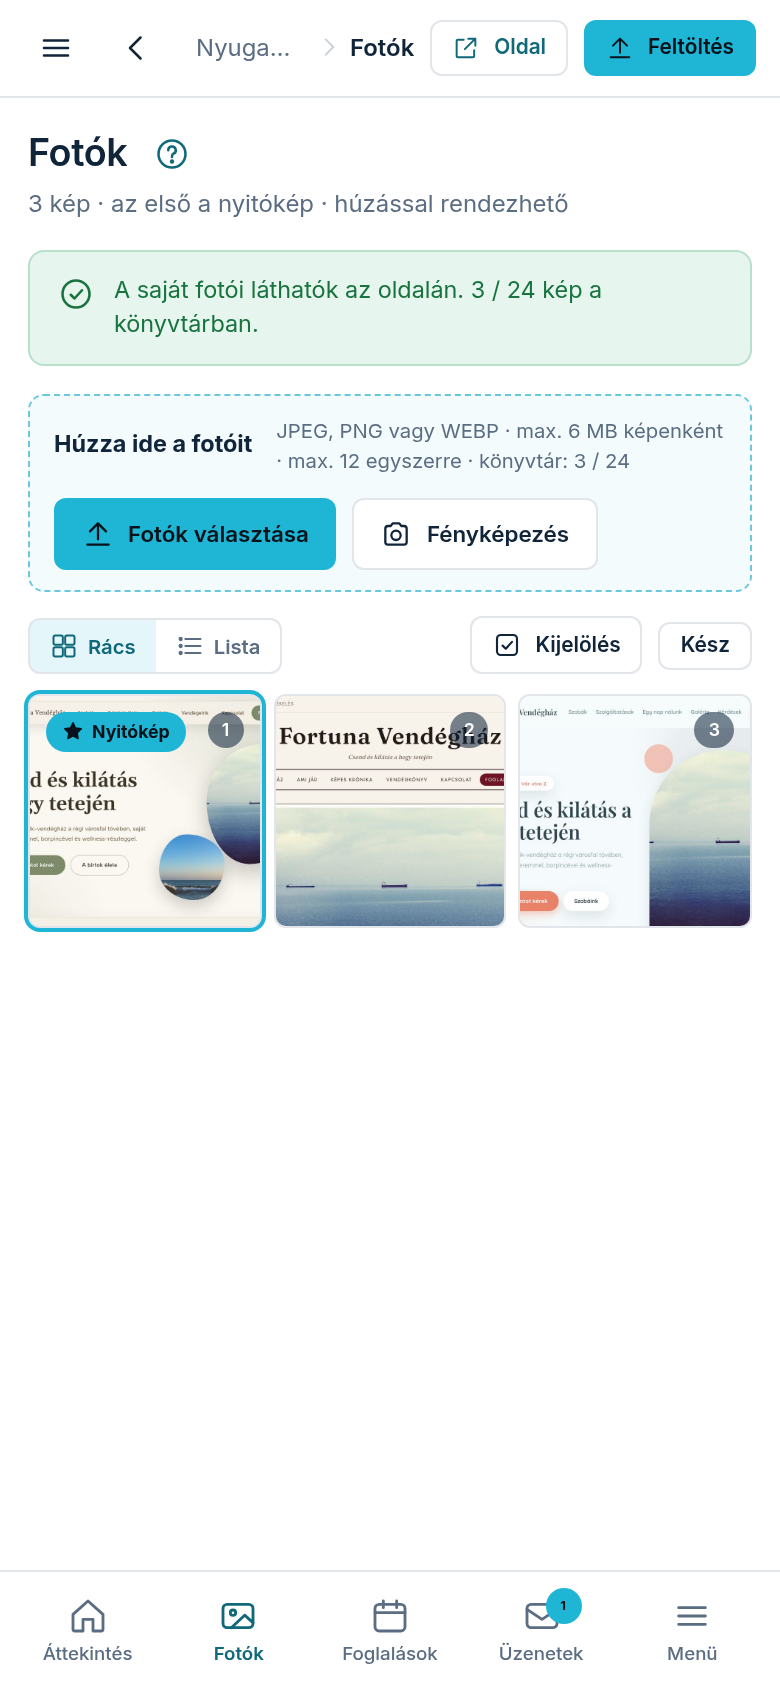
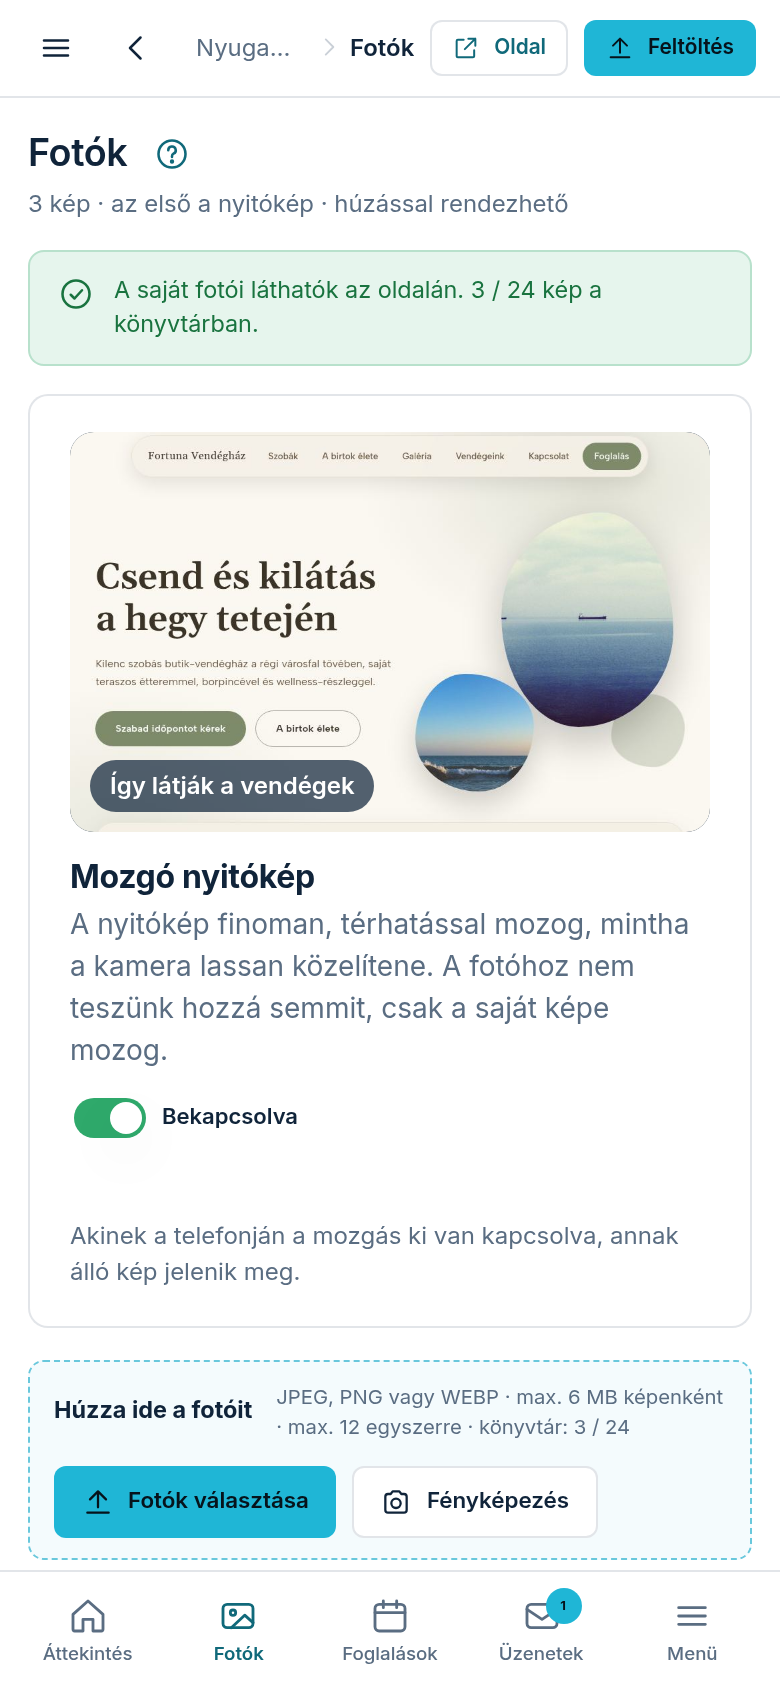
docs(kb): Mozgó nyitókép — a három hiányzó állapot, a feltöltő sáv helye, súgókép a kártyával (tudásbázis-őr FLAG, ADR-0472)
Claude-Session: https://claude.ai/code/session_01H78ew9HBdFXC3rMU2UuRDA
(cherry picked from commit f9ce56257359b1b19e08937adc43bd153cd26b8a)

diff --git a/kb/entries/admin-photos/entry.hu.md b/kb/entries/admin-photos/entry.hu.md
@@ -19,8 +19,8 @@ nyitókép, a sorrend húzással rendezhető.
 
 ## Saját fotók feltöltése
 
-1. Nyissa meg a **„Fotók”** lapot. A cím alatt egy szaggatott keretű sáv áll: **„Húzza ide a
-   fotóit”**. Ugyanez a sáv sorolja fel a szabályokat is: JPEG, PNG vagy WEBP, legfeljebb 6 MB
+1. Nyissa meg a **„Fotók”** lapot. A képek fölött egy szaggatott keretű sáv áll: **„Húzza ide a
+   fotóit”** (ha az oldala tud mozgó nyitóképet, fölötte még a **„Mozgó nyitókép”** kártya is). Ugyanez a sáv sorolja fel a szabályokat is: JPEG, PNG vagy WEBP, legfeljebb 6 MB
    képenként, legfeljebb 12 kép egyszerre, és összesen 24 kép fér a könyvtárba.
 2. Koppintson a **„Fotók választása”** gombra — a telefonja felajánlja a galériáját, és egyszerre
    több képet is kijelölhet. Telefonon a **„Fényképezés”** gombbal azonnal fotózhat is. Gépen a
@@ -68,7 +68,10 @@ semmit, csak a saját képe mozog.
    **„Kikapcsolva”**.
 2. A beállítás azonnal mentődik, külön gomb nincs. Alatta ezt látja: **„Mentve. Az oldalán a
    nyitókép most már mozog.”**, kikapcsoláskor pedig: **„Mentve. Az oldalán a nyitókép most álló
-   kép.”**
+   kép.”** Ha bekapcsoláskor a nyitókép mozgása még készül, ezt: **„Mentve. Amint elkészül, a
+   nyitókép mozogni kezd.”**
+3. Ha a mentés nem sikerül (például megszakadt az internet), ezt látja: **„Nem sikerült menteni.
+   Próbálja újra.”** — ilyenkor koppintson újra a kapcsolóra.
 
 Ha **új nyitóképet** választ, vagy saját fotót tölt fel, az új kép mozgását el kell készítenünk.
 Ez általában egy percen belül megvan; addig ezt látja: **„Új nyitókép: a térhatása készül,
@@ -76,7 +79,9 @@ Ez általában egy percen belül megvan; addig ezt látja: **„Új nyitókép: 
 nem készül; utána magától mozogni kezd (**„Elkészült, a nyitókép mozog.”**).
 
 Ha a nyitókép túl kicsi, a kártya megmondja: **„Ez a nyitókép túl kicsi a mozgáshoz, ezért álló kép
-marad. Egy nagyobb fotóval mozogni fog.”**
+marad. Egy nagyobb fotóval mozogni fog.”** Más okból (például ha a kép egy térkép-szolgáltatásból
+jön) ezt írja: **„Ennél a nyitóképnél a mozgás nem érhető el, ezért álló kép marad.”** — ilyenkor
+egy saját fotó nyitóképpé tételével mozogni fog.
 
 Akinek a telefonján a mozgás ki van kapcsolva (akadálymentesítési beállítás), annak az oldala
 mindig álló képet mutat.
